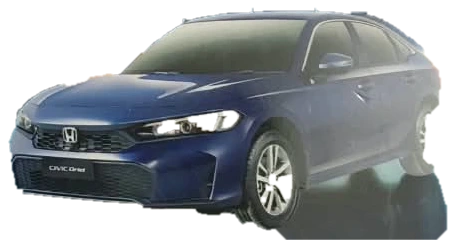
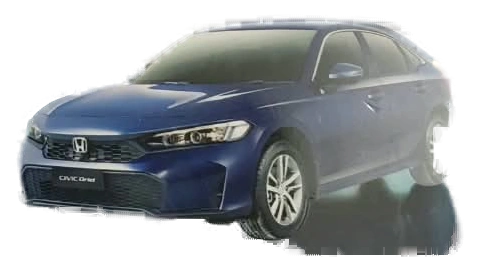
Hero: alpha-matted car cut-outs, rims and smoke stop as each car lands

Changed region(s): [[0.0, 0.0292, 0.9634, 1.0], [0.4215, 0.6125, 0.4817, 0.6708], [0.4516, 0.7292, 0.4817, 0.7583]]

diff --git a/src/hero/Hero.tsx b/src/hero/Hero.tsx
@@ -1,45 +1,47 @@
 import { useLayoutEffect, useRef } from 'react'
 import gsap from 'gsap'
-import { STAGE, CARS, WHEELS, SMOKE, LIGHTS, type CarKey } from './heroData'
+import { STAGE, CARS, WHEELS, SMOKE, LIGHTS, TIMING, type CarKey } from './heroData'
 
 const pct = (v: number, total: number) => `${(v / total) * 100}%`
 const CIVIC = 'CIVIC'.split('')
+const CAR_KEYS = Object.keys(CARS) as CarKey[]
 
 export default function Hero() {
   const root = useRef<HTMLElement>(null)
 
   useLayoutEffect(() => {
     const el = root.current!
-    const wrap = (k: CarKey) => el.querySelector<HTMLElement>(`[data-car="${k}"]`)!
-    const wrappers: Record<CarKey, HTMLElement> = { red: wrap('red'), white: wrap('white'), blue: wrap('blue') }
+    const wrappers = Object.fromEntries(
+      CAR_KEYS.map((k) => [k, el.querySelector<HTMLElement>(`[data-car="${k}"]`)!]),
+    ) as Record<CarKey, HTMLElement>
+    const wheelsOf = Object.fromEntries(
+      CAR_KEYS.map((k) => [k, Array.from(el.querySelectorAll<HTMLElement>(`[data-wheel="${k}"]`))]),
+    ) as Record<CarKey, HTMLElement[]>
     const stage = el.querySelector<HTMLElement>('[data-stage]')!
-    const wheels = Array.from(el.querySelectorAll<HTMLElement>('[data-wheel]'))
     const lights = Array.from(el.querySelectorAll<HTMLElement>('[data-light]'))
     const letters = Array.from(el.querySelectorAll<HTMLElement>('[data-letter]'))
-    let smokeTimer = 0
+    const smokeTimers: Partial<Record<CarKey, number>> = {}
 
-    const spawnSmoke = () => {
-      ;(Object.keys(SMOKE) as CarKey[]).forEach((car) => {
-        SMOKE[car].forEach(([lx, ly]) => {
-          const d = document.createElement('div')
-          d.className = 'puff'
-          d.style.left = pct(lx, CARS[car].w)
-          d.style.top = pct(ly, CARS[car].h)
-          wrappers[car].appendChild(d)
-          gsap.fromTo(
-            d,
-            { scale: 0.3, opacity: 0.85, xPercent: -50, yPercent: -50 },
-            {
-              scale: 2.4 + Math.random(),
-              opacity: 0,
-              x: (Math.random() - 0.5) * 60,
-              y: -20 - Math.random() * 40,
-              duration: 1.4 + Math.random() * 0.4,
-              ease: 'power1.out',
-              onComplete: () => d.remove(),
-            },
-          )
-        })
+    const spawnSmoke = (car: CarKey) => {
+      SMOKE[car].forEach(([lx, ly]) => {
+        const d = document.createElement('div')
+        d.className = 'puff'
+        d.style.left = pct(lx, CARS[car].w)
+        d.style.top = pct(ly, CARS[car].h)
+        wrappers[car].appendChild(d)
+        gsap.fromTo(
+          d,
+          { scale: 0.3, opacity: 0.85, xPercent: -50, yPercent: -50 },
+          {
+            scale: 2.4 + Math.random(),
+            opacity: 0,
+            x: (Math.random() - 0.5) * 60,
+            y: -20 - Math.random() * 40,
+            duration: 1.4 + Math.random() * 0.4,
+            ease: 'power1.out',
+            onComplete: () => d.remove(),
+          },
+        )
       })
     }
 
@@ -53,10 +55,6 @@ export default function Hero() {
       gsap.set('[data-header], [data-tagline]', { autoAlpha: 0, y: 16 })
       gsap.set(lights, { opacity: 0 })
 
-      // Rims spin continuously; slowed to a stop at the end of the roll-in.
-      const spin = gsap.to(wheels, { rotation: 360, duration: 0.3, ease: 'none', repeat: -1, transformOrigin: '50% 50%' })
-      spin.pause()
-
       // Headlight sequence: 1 -> 2 -> 3, looping.
       const flash = gsap.timeline({ repeat: -1, repeatDelay: 0.9, paused: true })
       lights.forEach((light) => {
@@ -67,26 +65,42 @@ export default function Hero() {
           .to(light, { opacity: 0.1, duration: 0.3 })
       })
 
+      // Each car's rims: spin from the moment it starts rolling, and slow to a
+      // stop as it lands, so the wheels never turn while the car is still.
+      const spins = Object.fromEntries(
+        CAR_KEYS.map((k) => [
+          k,
+          gsap.to(wheelsOf[k], { rotation: 360, duration: 0.3, ease: 'none', repeat: -1, transformOrigin: '50% 50%', paused: true }),
+        ]),
+      ) as Record<CarKey, gsap.core.Tween>
+
       const tl = gsap.timeline()
       // 1. Empty entrance pops up
       tl.to(stage, { autoAlpha: 1, scale: 1, filter: 'blur(0px)', duration: 1.1, ease: 'expo.out' }, 0)
         .to('[data-header]', { autoAlpha: 1, y: 0, duration: 0.8, ease: 'power3.out' }, 0.5)
         .to(letters, { yPercent: 0, autoAlpha: 1, duration: 0.9, stagger: 0.07, ease: 'power4.out' }, 0.8)
         .to('[data-tagline]', { autoAlpha: 1, y: 0, duration: 0.8, ease: 'power3.out' }, 1.2)
-        // 2. Cars roll in from their brochure positions
-        .call(() => spin.play(), [], 1.0)
-        .call(() => { smokeTimer = window.setInterval(spawnSmoke, 80) }, [], 1.0)
-        .to(wrappers.red, { xPercent: 0, duration: 2.0, ease: 'power3.out' }, 1.0)
-        .to(wrappers.blue, { xPercent: 0, duration: 2.0, ease: 'power3.out' }, 1.15)
-        .to(wrappers.white, { autoAlpha: 1, scale: 1, yPercent: 0, duration: 2.0, ease: 'power2.out' }, 1.4)
-        // 3. Tyres stop, smoke ends, headlights start blinking
-        .call(() => clearInterval(smokeTimer), [], 3.2)
-        .to(spin, { timeScale: 0, duration: 1.4, ease: 'power2.out' }, 3.0)
-        .call(() => flash.play(), [], 3.4)
+
+      // 2. Cars roll in from their brochure positions
+      tl.to(wrappers.red, { xPercent: 0, duration: 2.0, ease: 'power3.out' }, TIMING.red.start)
+        .to(wrappers.blue, { xPercent: 0, duration: 2.0, ease: 'power3.out' }, TIMING.blue.start)
+        .to(wrappers.white, { autoAlpha: 1, scale: 1, yPercent: 0, duration: 2.0, ease: 'power2.out' }, TIMING.white.start)
+
+      CAR_KEYS.forEach((k) => {
+        const { start, land } = TIMING[k]
+        tl.call(() => spins[k].play(), [], start)
+          // Rims slow down over the last 0.6s of the roll, stopping on landing.
+          .to(spins[k], { timeScale: 0, duration: 0.6, ease: 'power2.out' }, land - 0.6)
+          .call(() => { smokeTimers[k] = window.setInterval(() => spawnSmoke(k), 80) }, [], start)
+          .call(() => window.clearInterval(smokeTimers[k]), [], land)
+      })
+
+      // 3. Headlights start blinking once all three cars have landed
+      tl.call(() => flash.play(), [], Math.max(...CAR_KEYS.map((k) => TIMING[k].land)) + 0.1)
     }, el)
 
     return () => {
-      clearInterval(smokeTimer)
+      Object.values(smokeTimers).forEach((t) => window.clearInterval(t))
       ctx.revert()
     }
   }, [])
@@ -104,7 +118,7 @@ export default function Hero() {
       >
         <img src="/hero/backdrop.webp" alt="" className="absolute inset-0 h-full w-full object-cover" />
 
-        {(Object.keys(CARS) as CarKey[]).map((car) => {
+        {CAR_KEYS.map((car) => {
           const c = CARS[car]
           return (
             <div
@@ -120,7 +134,7 @@ export default function Hero() {
                 return (
                   <img
                     key={w.file}
-                    data-wheel
+                    data-wheel={car}
                     src={`/hero/${w.file}`}
                     alt=""
                     className="absolute will-change-transform"

diff --git a/src/hero/heroData.ts b/src/hero/heroData.ts
@@ -6,30 +6,37 @@ export type CarKey = 'red' | 'white' | 'blue'
 
 // Position (stage px) and size (px) of each car cut-out.
 export const CARS: Record<CarKey, { x: number; y: number; w: number; h: number; file: string; alt: string }> = {
-  red: { x: -10, y: 430, w: 640, h: 320, file: 'red.webp', alt: 'Civic RS in red' },
-  white: { x: 480, y: 400, w: 290, h: 155, file: 'white.webp', alt: 'Civic in white' },
-  blue: { x: 685, y: 420, w: 465, h: 240, file: 'blue.webp', alt: 'Civic Oriel in blue' },
+  red: { x: -20, y: 420, w: 660, h: 340, file: 'red.webp', alt: 'Civic RS in red' },
+  white: { x: 470, y: 390, w: 310, h: 175, file: 'white.webp', alt: 'Civic in white' },
+  blue: { x: 675, y: 410, w: 485, h: 260, file: 'blue.webp', alt: 'Civic Oriel in blue' },
 }
 
 // Wheel centre (car-local px) and radius, used for the spinning rims.
 export const WHEELS: { car: CarKey; file: string; cx: number; cy: number; r: number }[] = [
-  { car: 'red', file: 'wheel_red_f.webp', cx: 265, cy: 235, r: 58 },
-  { car: 'red', file: 'wheel_red_r.webp', cx: 45, cy: 185, r: 42 },
-  { car: 'blue', file: 'wheel_blue_f.webp', cx: 268, cy: 183, r: 36 },
-  { car: 'white', file: 'wheel_white_f.webp', cx: 150, cy: 120, r: 30 },
-  { car: 'white', file: 'wheel_white_r.webp', cx: 262, cy: 85, r: 22 },
+  { car: 'red', file: 'wheel_red_f.webp', cx: 275, cy: 245, r: 58 },
+  { car: 'red', file: 'wheel_red_r.webp', cx: 55, cy: 195, r: 42 },
+  { car: 'blue', file: 'wheel_blue_f.webp', cx: 278, cy: 193, r: 36 },
+  { car: 'white', file: 'wheel_white_f.webp', cx: 160, cy: 130, r: 30 },
+  { car: 'white', file: 'wheel_white_r.webp', cx: 272, cy: 95, r: 22 },
 ]
 
 // Tyre contact points (car-local px) where tyre smoke is emitted.
 export const SMOKE: Record<CarKey, [number, number][]> = {
-  red: [[265, 300], [45, 235]],
-  blue: [[268, 215]],
-  white: [[150, 150], [262, 108]],
+  red: [[275, 310], [55, 245]],
+  blue: [[278, 225]],
+  white: [[160, 160], [272, 118]],
 }
 
 // Headlight centres (car-local px) and glow width, in the order they blink: 1, 2, 3.
 export const LIGHTS: { car: CarKey; cx: number; cy: number; w: number }[] = [
-  { car: 'red', cx: 395, cy: 152, w: 150 },
-  { car: 'blue', cx: 175, cy: 125, w: 95 },
-  { car: 'white', cx: 80, cy: 75, w: 70 },
+  { car: 'red', cx: 405, cy: 162, w: 150 },
+  { car: 'blue', cx: 185, cy: 135, w: 95 },
+  { car: 'white', cx: 90, cy: 85, w: 70 },
 ]
+
+// When each car starts rolling in and when it lands (seconds from the start).
+export const TIMING: Record<CarKey, { start: number; land: number }> = {
+  red: { start: 1.0, land: 3.0 },
+  blue: { start: 1.15, land: 3.15 },
+  white: { start: 1.4, land: 3.4 },
+}
